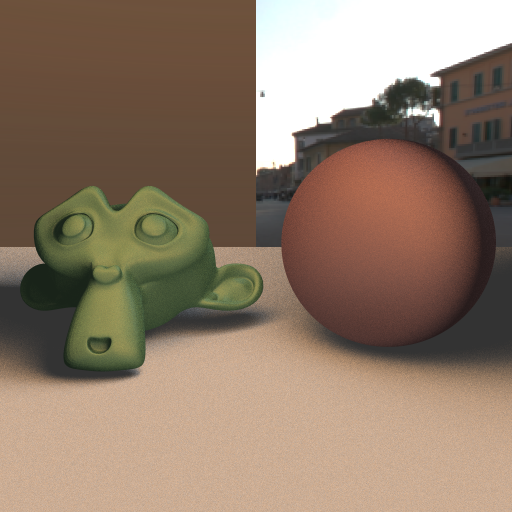
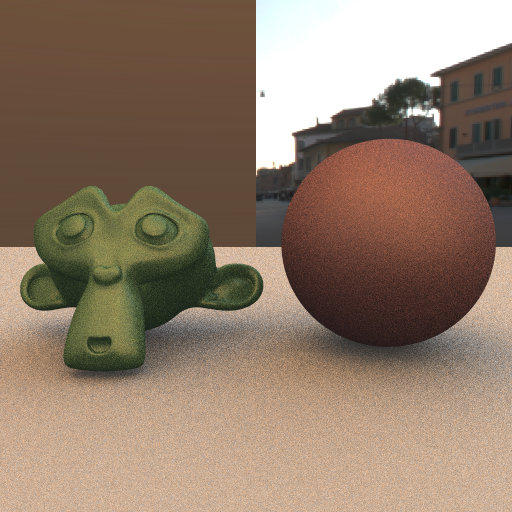
sphere illumination seems good enough  closes #6

Changed region(s): [[0.0, 0.25, 1.0, 0.8438], [0.1875, 0.375, 0.25, 0.4375]]

diff --git a/src/apps/04_pathtrace.cpp b/src/apps/04_pathtrace.cpp
@@ -19,7 +19,7 @@ void pathtrace(Scene* scene, image3f* image, RngImage* rngs, int offset_row, int
 vec3f lookup_scaled_texture(vec3f value, image3f* texture, vec2f uv, bool tile = false) {
     if(not texture) return value;
     
-    bool filtering = false;
+    bool filtering = true;
     
     // texture tiling
     if(tile){
@@ -33,7 +33,7 @@ vec3f lookup_scaled_texture(vec3f value, image3f* texture, vec2f uv, bool tile =
         
         j = j % texture->width();
         if (j < 0){
-            j = j + texture->width();
+            j = j + texture->height();
         }
         
 //        auto i = (int)(uv.x*(texture->width()-1));
@@ -80,6 +80,7 @@ vec3f eval_brdf(vec3f kd, vec3f ks, float n, vec3f v, vec3f l, vec3f norm, bool 
             float geo = min(1.0f,2.0f * dot(h,norm) * dot(v,norm) / dot(v,h));
             geo = min(geo,(2.0f * dot(h,norm)*dot(l,norm) / dot(l,h)));
         return (dist * geo * fresnel)/(4.0f * dot(l,norm) * dot(v,norm));
+        
     }
 }
 
@@ -87,8 +88,8 @@ vec3f eval_brdf(vec3f kd, vec3f ks, float n, vec3f v, vec3f l, vec3f norm, bool 
 vec3f eval_env(vec3f ke, image3f* ke_txt, vec3f dir) {
     vec2f uv;
     uv.x = atan2f(dir.x,dir.z)/(2.0f*pif);
-    uv.y = 1.0f-acosf(dir.y)/pif;
-    auto vector = lookup_scaled_texture(ke, ke_txt, uv);
+    uv.y = 1.0f-acos(dir.y)/pif;
+    auto vector = lookup_scaled_texture(ke, ke_txt, uv, false);
     return vector;
 }
 
@@ -108,9 +109,9 @@ vec3f pathtrace_ray(Scene* scene, ray3f ray, Rng* rng, int depth) {
     auto v = -ray.d;
     
     // compute material values by looking up textures
-    auto ke = lookup_scaled_texture(intersection.mat->ke, intersection.mat->ke_txt, intersection.texcoord, true);
-    auto kd = lookup_scaled_texture(intersection.mat->kd, intersection.mat->kd_txt, intersection.texcoord, true);
-    auto ks = lookup_scaled_texture(intersection.mat->ks, intersection.mat->ks_txt, intersection.texcoord, true);
+    auto ke = lookup_scaled_texture(intersection.mat->ke, intersection.mat->ke_txt, intersection.texcoord, false);
+    auto kd = lookup_scaled_texture(intersection.mat->kd, intersection.mat->kd_txt, intersection.texcoord, false);
+    auto ks = lookup_scaled_texture(intersection.mat->ks, intersection.mat->ks_txt, intersection.texcoord, false);
     auto n = intersection.mat->n;
     auto mf = intersection.mat->microfacet;
     
@@ -173,9 +174,10 @@ vec3f pathtrace_ray(Scene* scene, ray3f ray, Rng* rng, int depth) {
             // generate a 2d random number
             auto num = rng->next_vec2f();
             
+            vec2f uv = (num - vec2f(0.5, 0.5))*2;
             // compute light position, normal, area
-            lpos = sample_direction_spherical_uniform(num);
-            lnorm = normalize(lpos);
+            lpos = sample_direction_spherical_uniform(uv);
+            lnorm = normalize(lpos - surface->frame.o);
             area = 4*PI*pow(surface->radius, 2);
             // set tex coords as random value got before
             texcoords = num;
@@ -231,9 +233,15 @@ vec3f pathtrace_ray(Scene* scene, ray3f ray, Rng* rng, int depth) {
             // if shadows are enabled
             if (scene->path_shadows) {
                 // perform a shadow check and accumulate
-                if(not intersect_shadow(scene,ray3f::make_segment(pos, brdf.first))){
+                
+                if(!intersect(scene, ray3f(pos,brdf.first)).hit){
                     c += shade;
+
                 }
+//                if(not intersect_shadow(scene,ray3f::make_segment(pos, brdf.first))){
+//                    c += shade;
+//                }
+                
             }
             // else just accumulate
             else {
@@ -251,7 +259,7 @@ vec3f pathtrace_ray(Scene* scene, ray3f ray, Rng* rng, int depth) {
         // printf("I am here!");
         // pick direction and pdf
         auto brdf = sample_brdf(kd, ks, n, v, norm, rng->next_vec2f(), rng->next_float());
-        // auto text = eval_env(scene->background, scene->background_txt, brdf.first);
+//         auto text = eval_env(scene->background, scene->background_txt, brdf.first);
         
         ray3f ray2 = ray3f(pos,brdf.first);
         
